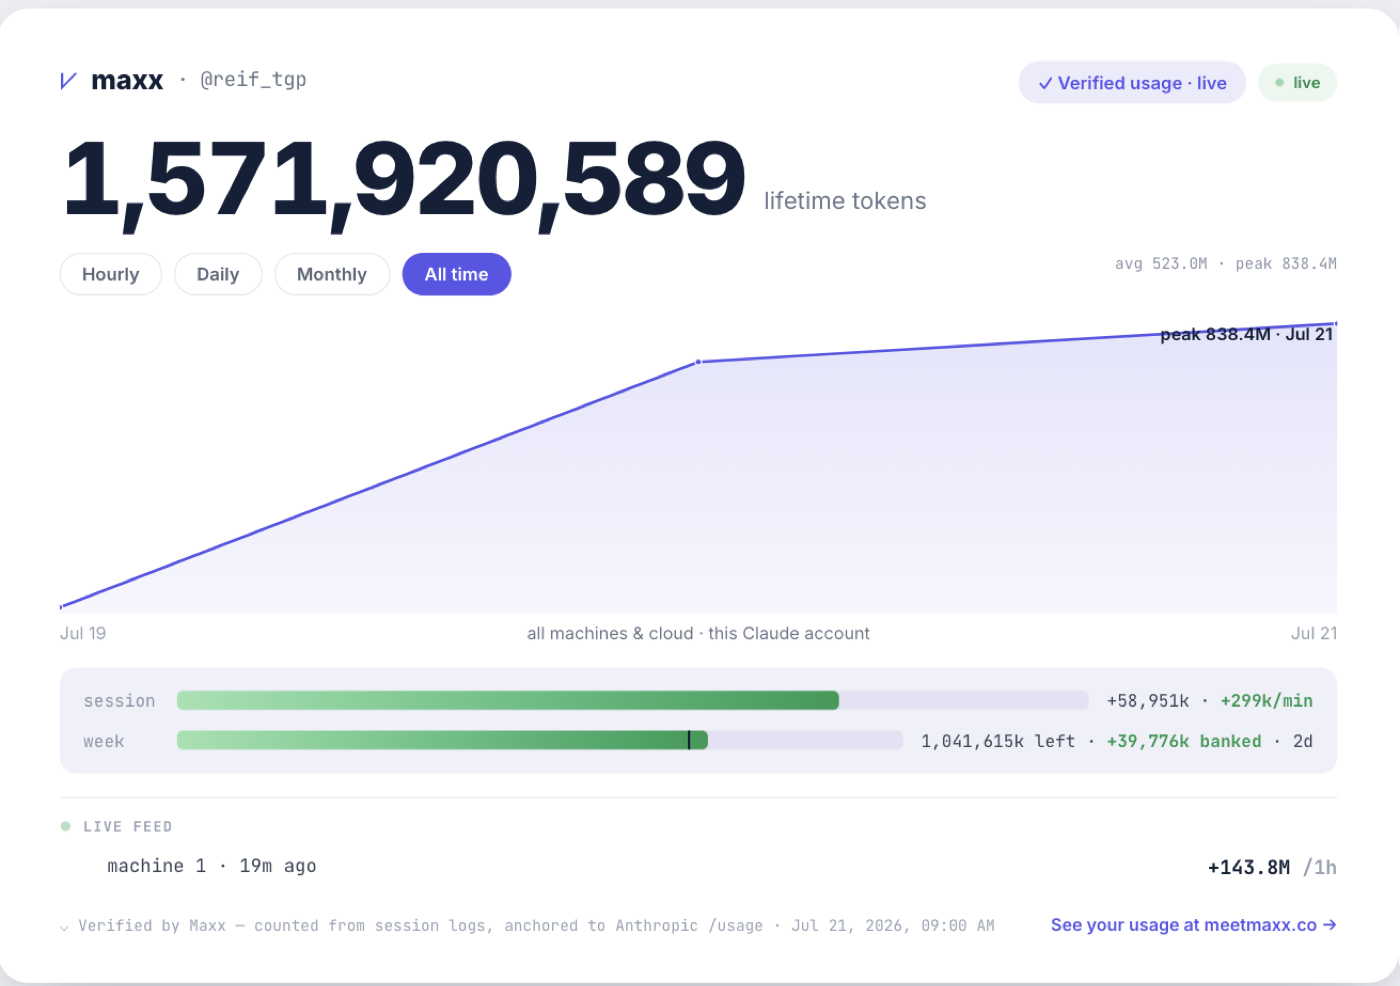
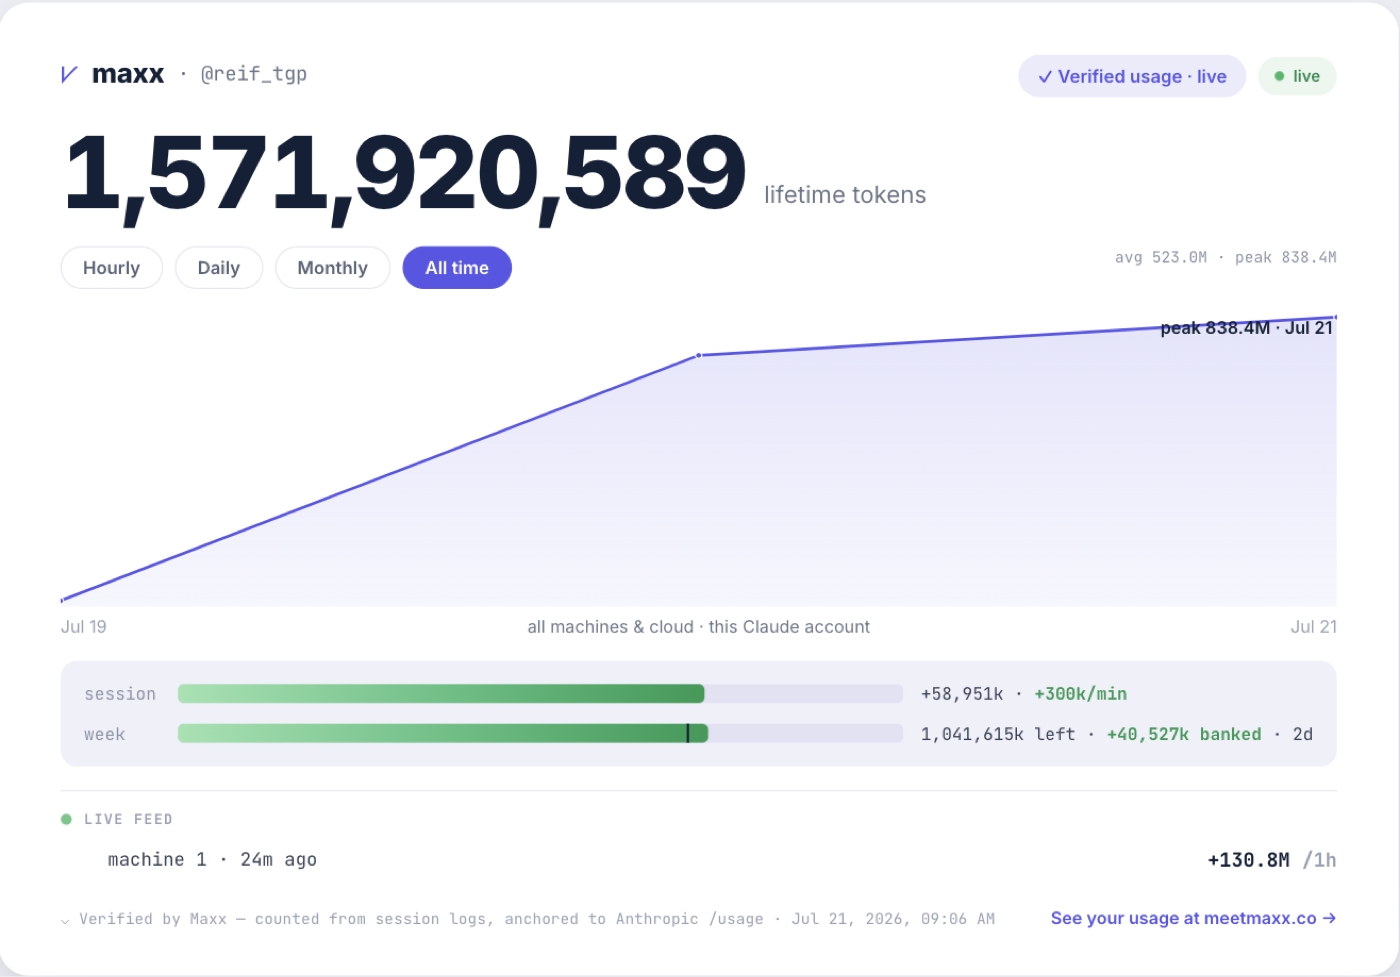
chore(landing): re-shoot the hero with the aligned rails
The hero screenshot was taken before 82f48cd, so it showed the misaligned
session and week tracks the fix removed.

Claude-Session: https://claude.ai/code/session_01Gy1kZDenLB5yDRQ1DHqPrF

diff --git a/site/index.html b/site/index.html
@@ -207,7 +207,7 @@
 
 <div class="wrap demo">
   <div class="shot">
-    <img src="card-hero.png" alt="A maxx dashboard: 1,571,920,589 lifetime tokens, a usage chart across all machines and cloud, and the session and week rails showing what is left" width="1400" height="986">
+    <img src="card-hero.png" alt="A maxx dashboard: 1,571,920,589 lifetime tokens, a usage chart across all machines and cloud, and the session and week rails showing what is left" width="1400" height="977">
   </div>
   <p class="caption">Your dashboard: every machine and cloud agent on one page, live. <a href="https://meetmaxx.co/u/reif_tgp">See a real one →</a></p>
 </div>